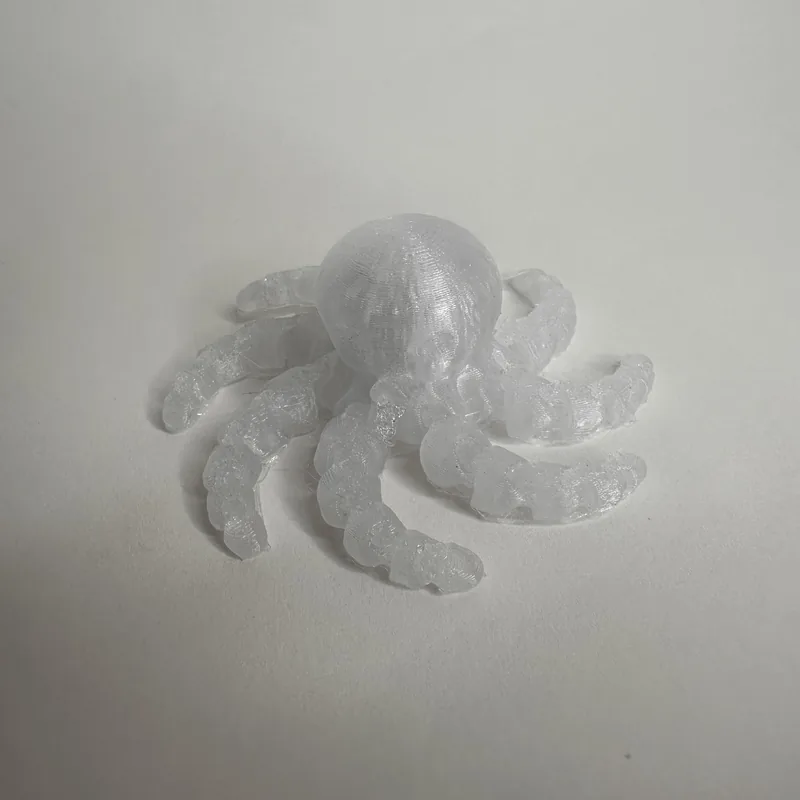
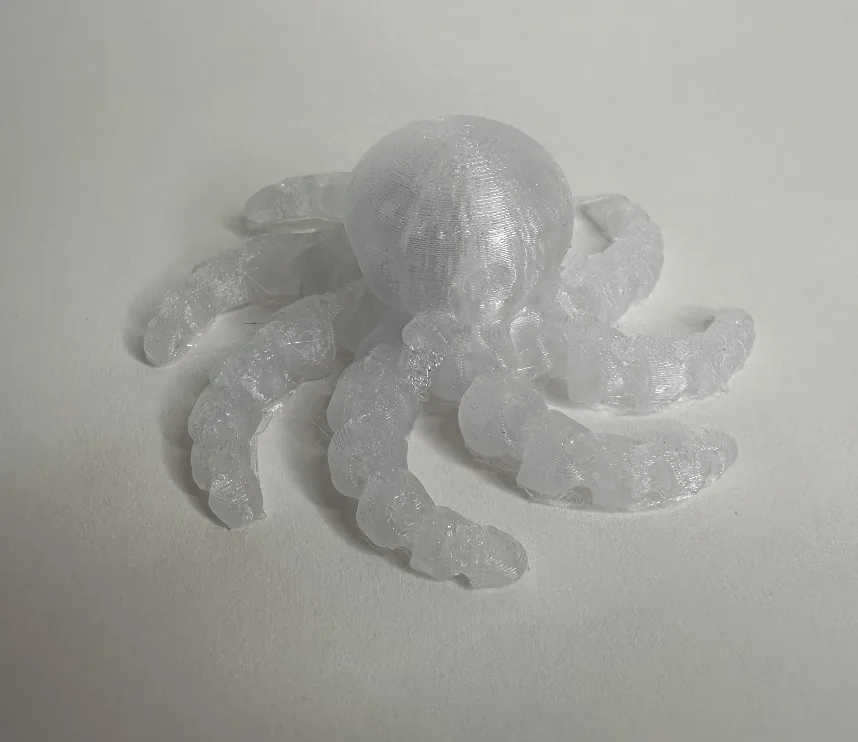
Walkthrough teaser: octopus, whistle, cylinder; real photos aligned to the preview framing
The boat is replaced by the cylinder (its photos were taken from too different an angle). Each
real photo is now aligned automatically to the preview: the object is cut out of the photo and
of the slicer screenshot (rembg u2net, as in the pipeline), and the scale, rotation and shift
that best overlap the two silhouettes are applied (overlap 0.93-0.98 for the whistle and the
cylinder, 0.70-0.76 for the octopus, whose legs lie differently in each print).

diff --git a/walkthrough/index.html b/walkthrough/index.html
@@ -180,7 +180,7 @@ footer { margin: 80px 0 40px; font-size: 13px; color: var(--faint); }
       <div class="controls">
         <span class="label">Object</span>
         <span class="seg" data-group="tobj">
-          <button data-v="octopus" class="on">Octopus</button><button data-v="boat">Boat</button><button data-v="whistle">Whistle</button>
+          <button data-v="octopus" class="on">Octopus</button><button data-v="whistle">Whistle</button><button data-v="cylinder">Cylinder</button>
         </span>
         <span class="label" style="margin-left:10px">Filament</span>
         <span class="seg" data-group="tmat">
@@ -190,12 +190,12 @@ footer { margin: 80px 0 40px; font-size: 13px; color: var(--faint); }
       <div class="trio">
         <div class="cell"><img fetchpriority="high" id="t-slice" alt="Slicer screenshot" src="assets/slice_octopus.webp" width="858" height="742"><span class="tag">Slicer screenshot</span></div>
         <div class="cell"><img fetchpriority="high" id="t-prev" alt="VisiPrint preview" src="assets/prev_octopus_pink.webp" width="858" height="742"><span class="tag">VisiPrint preview</span></div>
-        <div class="cell"><img fetchpriority="high" id="t-real" alt="Photo of the real print" src="assets/real_octopus_pink.webp" width="800" height="800"><span class="tag">Real print (photo)</span></div>
+        <div class="cell"><img fetchpriority="high" id="t-real" alt="Photo of the real print" src="assets/real_octopus_pink.webp" width="858" height="742"><span class="tag">Real print (photo)</span></div>
       </div>
     </div>
     <figcaption><b>From a slicer screenshot to a preview of the print.</b> Pick an object and a filament. The middle column is VisiPrint's
       output, generated by the released pipeline on a GPU from the screenshot on the left and a photo of a small sample printed in that filament.
-      The right column is a photo of the object actually printed in that filament (photographed separately, so the viewpoint differs a little).</figcaption>
+      The right column is a photo of the object actually printed in that filament, aligned to the preview's framing (photographed separately, so the viewpoint differs a little).</figcaption>
   </figure>
 </section>
 
@@ -486,7 +486,7 @@ function updTeaser() {
 }
 seg('tobj', (v) => { T.obj = v; updTeaser(); });
 seg('tmat', (v) => { T.mat = v; updTeaser(); });
-whenIdle(() => preload(['octopus', 'boat', 'whistle'].flatMap((o) => ['pink', 'silver', 'blue', 'clear'].flatMap((m) => [`assets/prev_${o}_${m}.webp`, `assets/real_${o}_${m}.webp`]))));
+whenIdle(() => preload(['octopus', 'whistle', 'cylinder'].flatMap((o) => ['pink', 'silver', 'blue', 'clear'].flatMap((m) => [`assets/prev_${o}_${m}.webp`, `assets/real_${o}_${m}.webp`]))));
 
 // ---------- compare slider ----------
 (function () {
